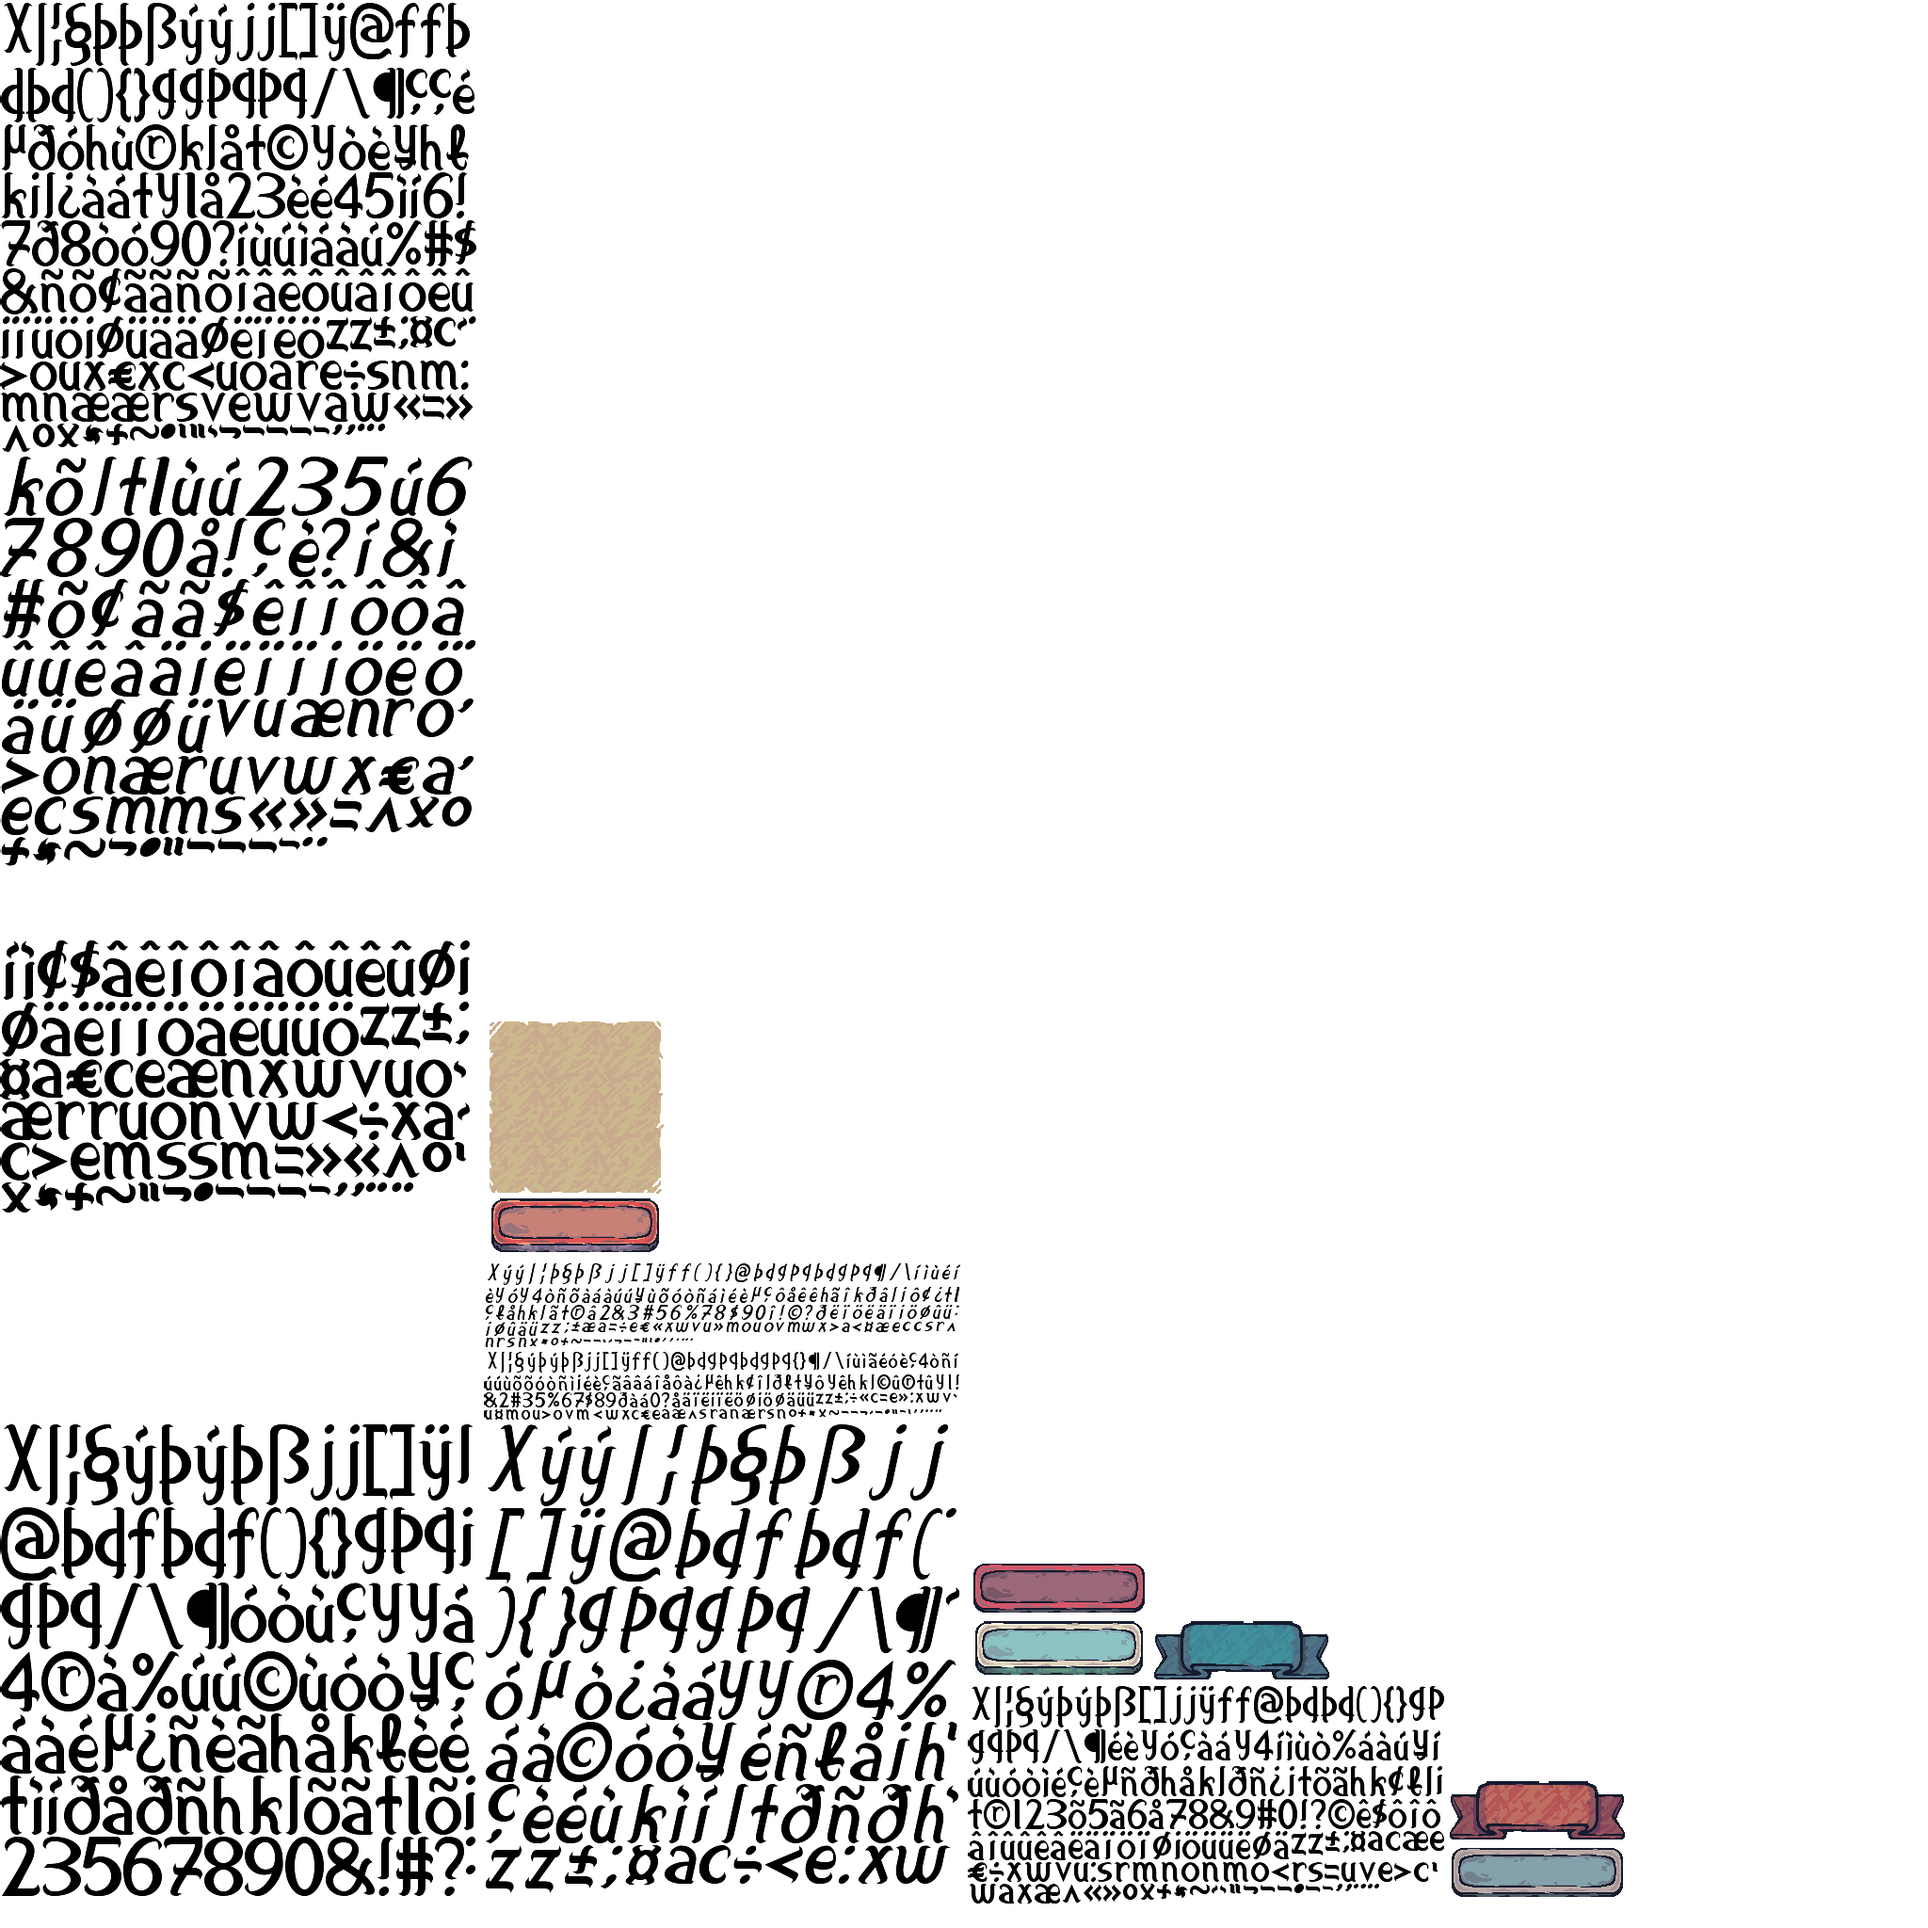
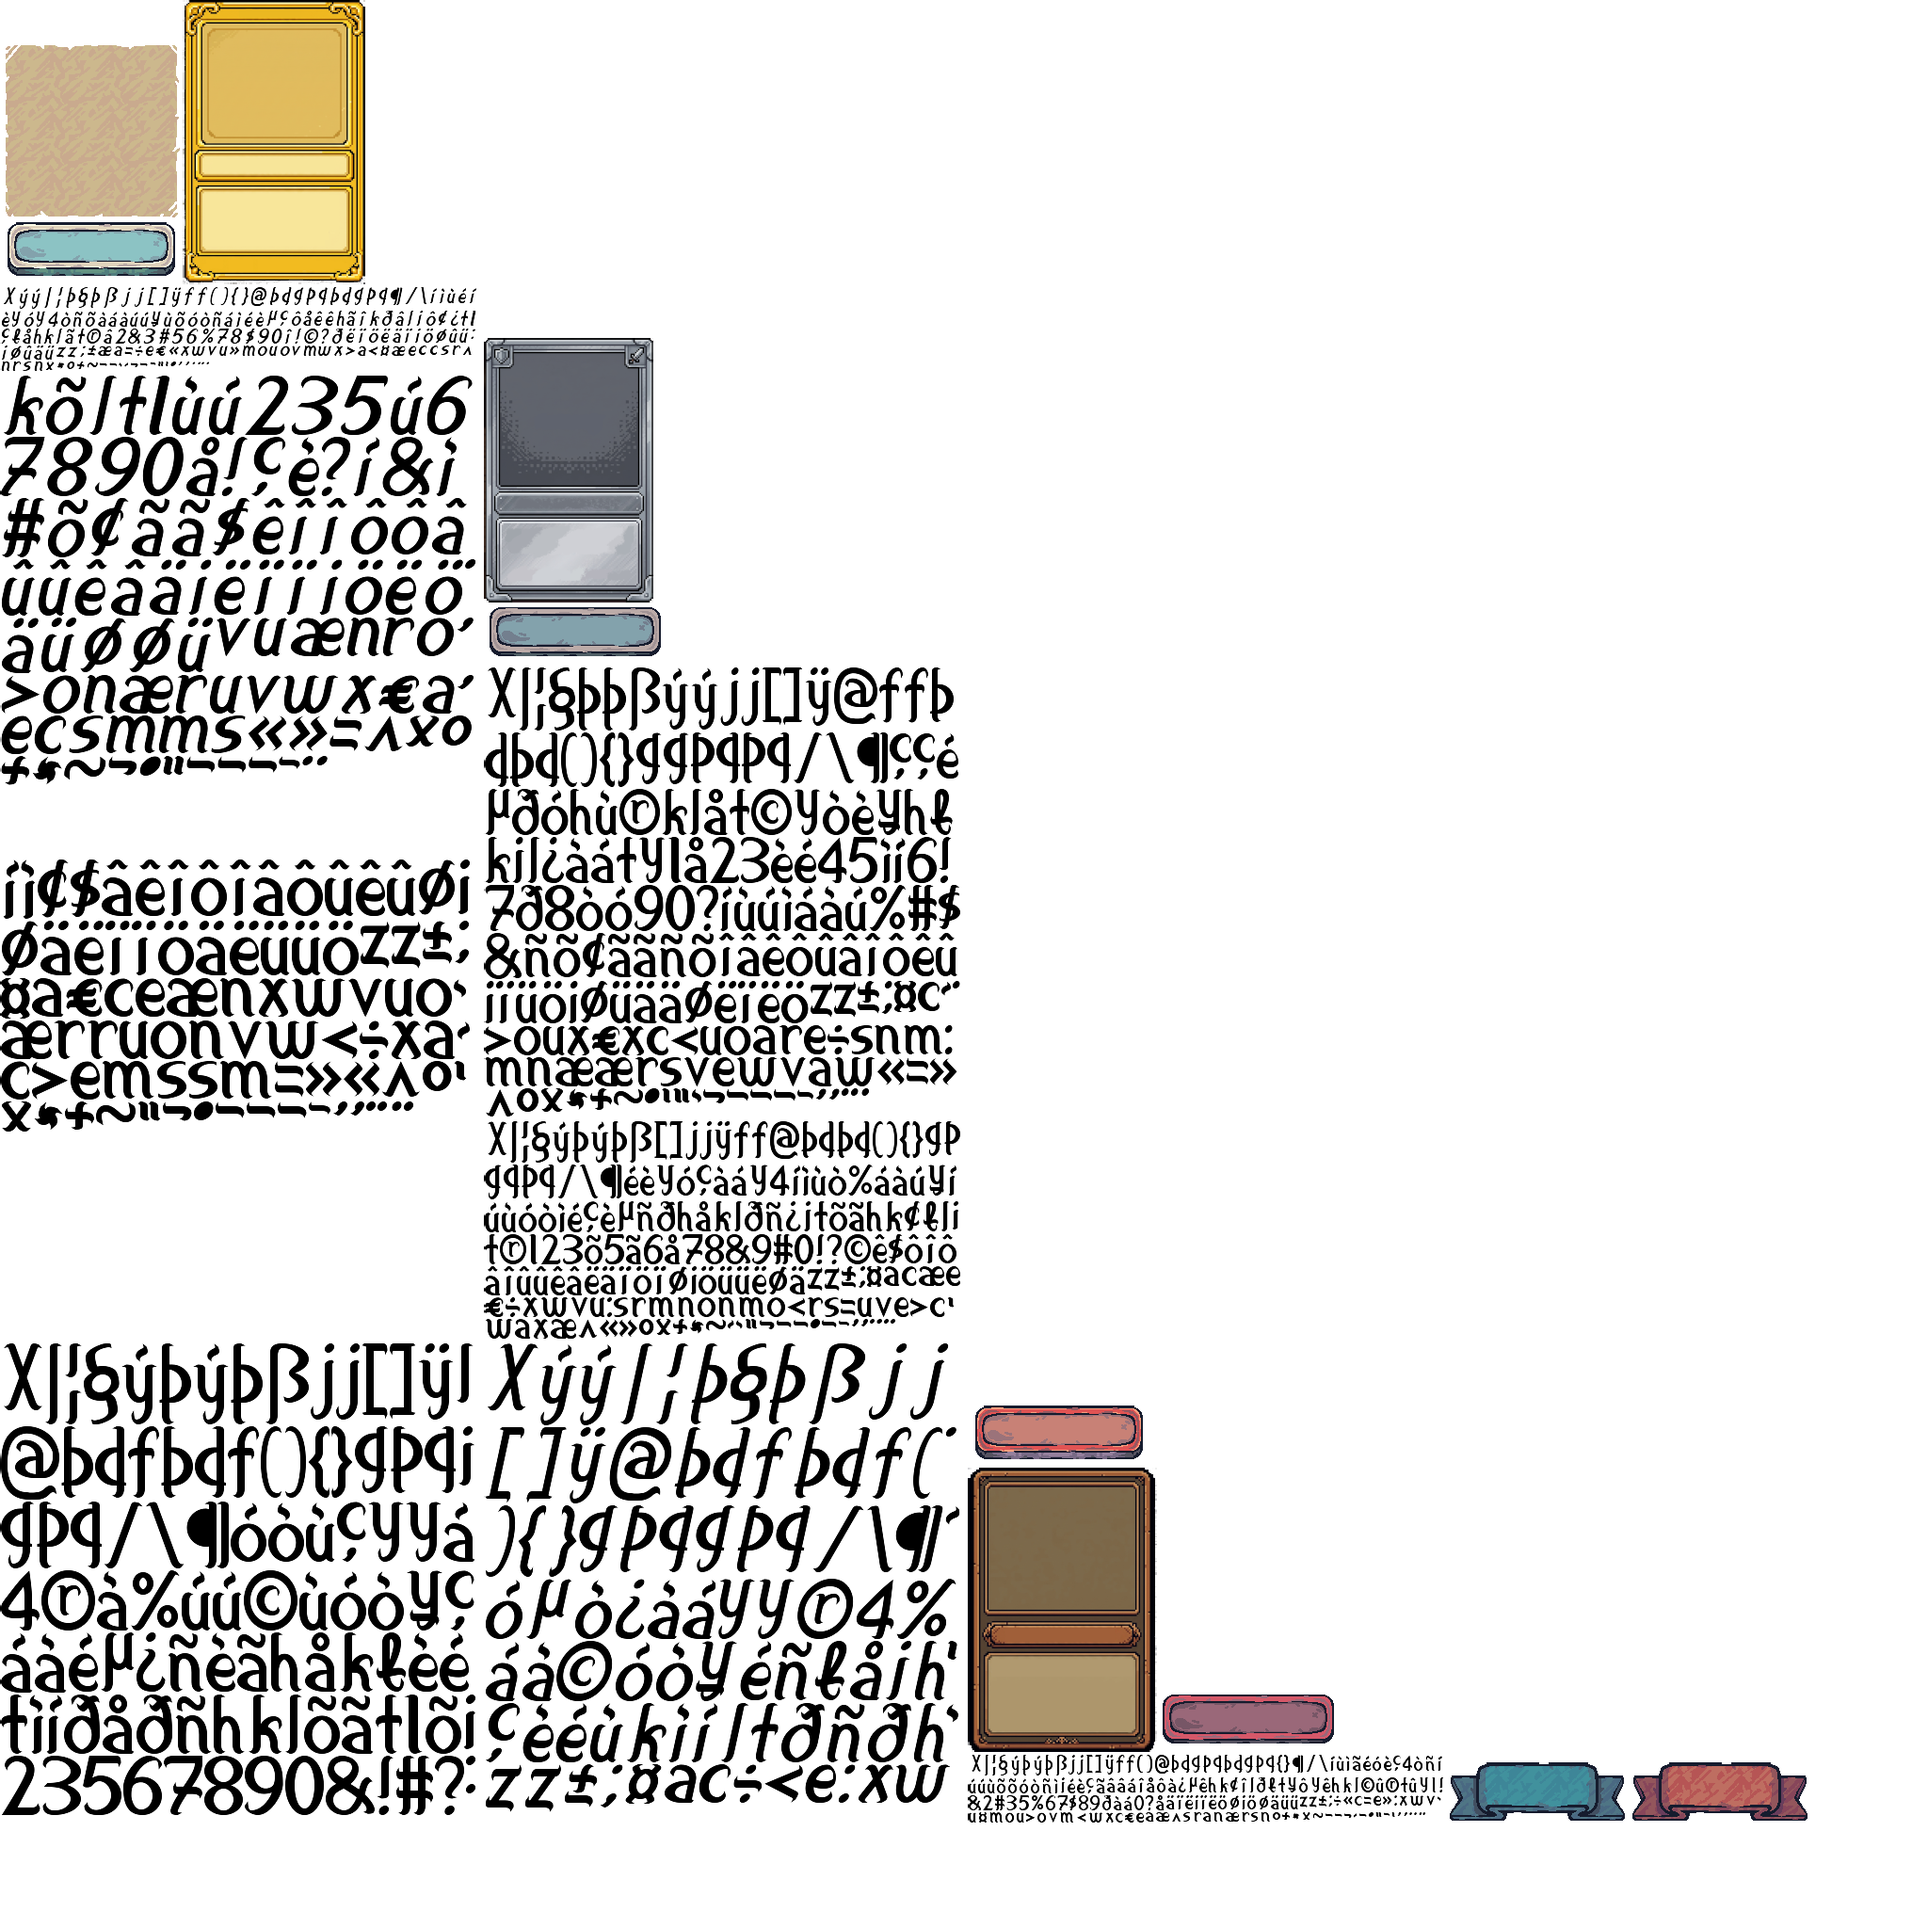
fazendo os cards (nao completo ainda)

Changed region(s): [[0.0, 0.0, 0.9375, 1.0]]

diff --git a/core/src/main/java/io/github/generaldeck/CardWidget.java b/core/src/main/java/io/github/generaldeck/CardWidget.java
@@ -1,0 +1,47 @@
+import com.badlogic.gdx.scenes.scene2d.ui.Image;
+import com.badlogic.gdx.scenes.scene2d.ui.Label;
+import com.badlogic.gdx.scenes.scene2d.ui.Skin;
+import com.badlogic.gdx.scenes.scene2d.ui.Table;
+import com.badlogic.gdx.scenes.scene2d.utils.Drawable;
+import com.badlogic.gdx.utils.Align;
+
+// A carta é, na verdade, uma Tabela (Table) que se organiza sozinha!
+public class CardWidget extends Table {
+
+    public CardWidget(SkillCard cardData, Skin skin, Drawable cardBackground, Drawable cardIcon) {
+
+        // 1. O Fundo da carta (Um PNG em branco, apenas com a moldura bonita que você desenhar)
+        this.setBackground(cardBackground);
+
+        // 2. O Título da Carta (Usando a sua Skin!)
+        Label titleLabel = new Label(cardData.getName(), skin, "title"); // ou "default" se não tiver "title"
+        titleLabel.setAlignment(Align.center);
+
+        // 3. A Imagem/Ícone da habilidade
+        Image iconImage = new Image(cardIcon);
+
+        // 4. A Descrição (A Mágica do Wrap)
+        Label descLabel = new Label(cardData.getDescription(), skin, "small");
+        descLabel.setAlignment(Align.center);
+        // O setWrap(true) é vital! Ele faz o texto quebrar de linha sozinho
+        // se a frase for maior que a largura da carta.
+        descLabel.setWrap(true);
+
+        // ==========================================
+        // MONTAGEM DO LAYOUT (De cima para baixo)
+        // ==========================================
+
+        // Adiciona o título, dá um espaço (pad) em cima e pula de linha (row)
+        this.add(titleLabel).padTop(15).expandX().fillX().row();
+
+        // Adiciona o ícone no meio, com um tamanho fixo (ex: 64x64)
+        this.add(iconImage).size(64, 64).padTop(10).padBottom(10).row();
+
+        // Adiciona o texto descritivo.
+        // O width define onde o texto deve começar a quebrar de linha.
+        this.add(descLabel).width(160).padBottom(15).expandY().top();
+
+        // (Opcional) Força a carta inteira a ter um tamanho fixo (ex: 200x300)
+        this.setSize(200, 300);
+    }
+}
